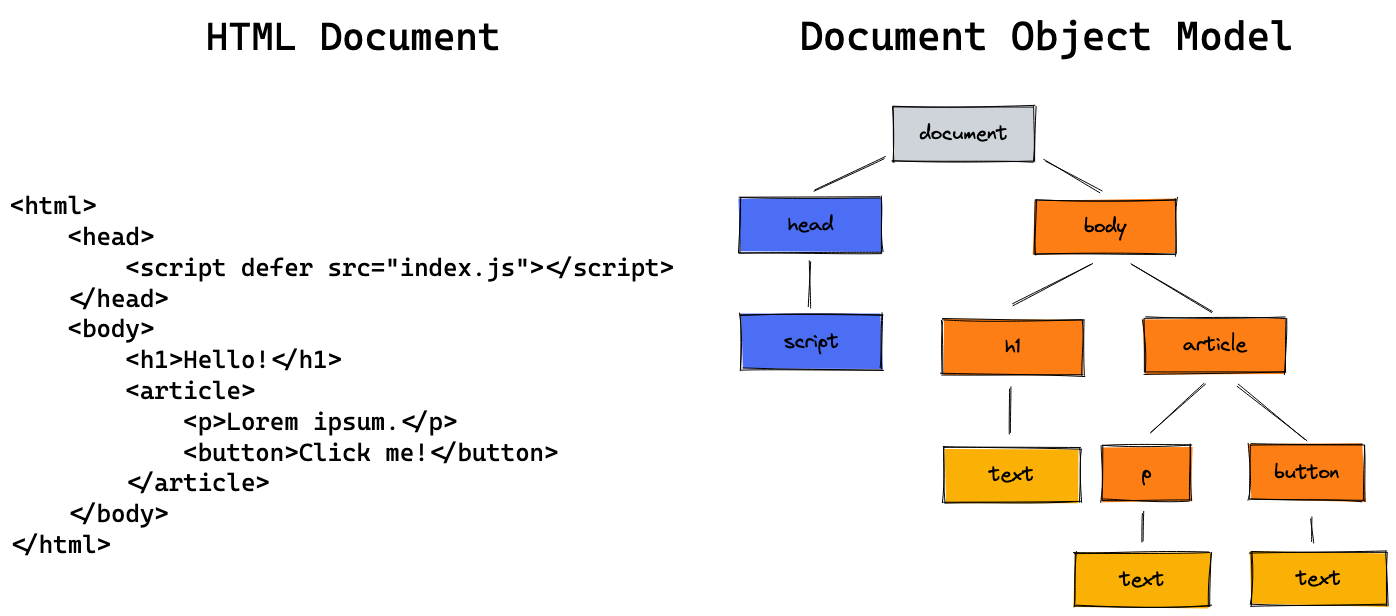
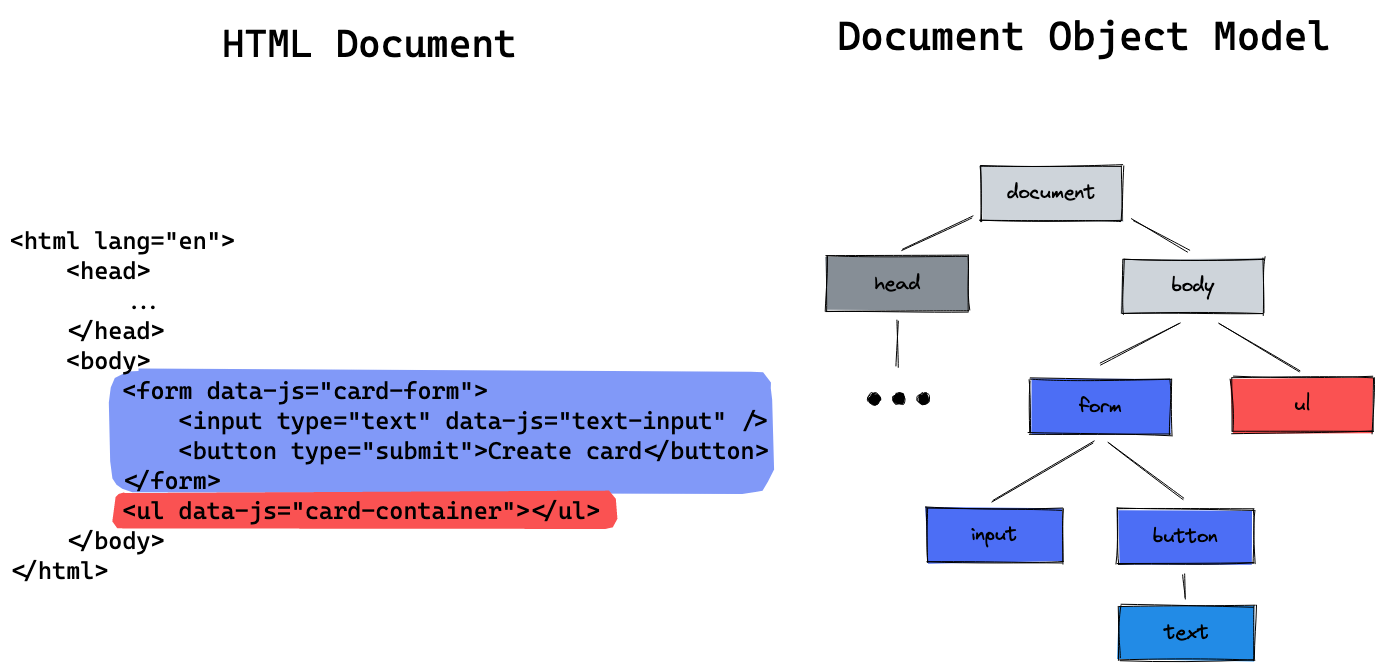
refactor: use different code examples to match demo

diff --git a/sessions/js-createelement/README.md b/sessions/js-createelement/README.md
@@ -29,33 +29,80 @@ How can we write JavaScript code that generates parts of our webpage for us?
 
 ### Which previously learned concepts will be utilized in this session?
 
-- DOM representations of HTML elements
+- querySelector
 - classList and eventListeners
 
 ---
 
 ## Inform: Session Guide
 
-### createElement and append
+### Motivation
 
 - [ ] Show why we want to generate HTML from JavaScript:
-  - [ ] open a website with similar posts like reddit or twitter
-  - [ ] highlight, that these elements are generated automatically from data
-  - [ ] show that we need to learn how to do this to build a modern web app
-- [ ] create a simple **article** element in the dom
-  - [ ] `const newArticle = document.createElement('article')`
-  - [ ] sketch the following diagram in excalidraw:
-        ![dom and createElement](assets/appendElement.png)
+- [ ] open a website with similar posts like reddit or twitter
+- [ ] highlight, that these elements are generated automatically from data
+- [ ] show that we need to learn how to do this to build a modern web app
+- [ ] During the session, show an example of how to generate HTML by creating a card component from
+      a simple form. You can use this demo:
+  - starter code:
+    [codesandbox](https://codesandbox.io/s/github/neuefische/web-exercises/sessions/js-createelement/demo-start?file=/js/index.js)
+  - final code:
+    [codesandbox](https://codesandbox.io/s/github/neuefische/web-exercises/sessions/js-createelement/demo-end?file=/js/index.js)
+
+### The DOM
+
+- [ ] explain, that JavaScript can access and change the HTML document via the **DOM**
+- [ ] **Document Object Model**: A data representation of the HTML website. Each tag is modelled as
+      a **node** in the document tree.
+- [ ] access the DOM via the `document` object, e.g. `document.querySelector`
+- [ ] sketch a quick DOM representation of the demo HTML ![dom and createElement](assets/DOM.png)
+
+### `document.createElement` and `append`
+
+- [ ] create a simple **li** element in the DOM
+  - [ ] `const newCard = document.createElement('li')`
+  - [ ] extend the diagram in excalidraw: ![dom and createElement](assets/createElement.png)
 - [ ] explain that additionally to create an Element you have to **place it** somewhere in the DOM
       tree.
   - [ ] `body.append(newArticle)`
   - [ ] show the effect in your example webpage
   - [ ] explain that append puts the element as the **last child** in the respective element
 
-### Section 2
+### Element Properties and EventListeners
 
-- [ ]
-- [ ]
+- [ ] highlight, that new created elements behave the same way as queried elements
+- [ ] show, that the element don't have to be queried to be manipulated. They already are saved in a
+      variable, e.g. `newCard`.
+- [ ] quickly recap how to add properties to an element
+  ```js
+  newCard.classList.add('card');
+  newCard.textContent = 'This text is displayed in the element';
+  ```
+- [ ] add this code to an event listener on the form element:
+  ```js
+  form.addEventListener('submit', event => {
+  	event.preventDefault();
+  	const newCard = document.createElement('li');
+  	newCard.classList.add('card');
+  	newCard.textContent = 'This text is displayed in the element';
+  	cardContainer.append(newCard);
+  });
+  ```
+
+### `innerHTML`
+
+- [ ] `innerHTML`: the given string is parsed to HTML and becomes the content of the element.
+- [ ] useful to generate many HTML elements from a single string, e.g.
+  ```js
+  const cardText = textInput.value;
+  newCard.innerHTML = `
+  	<h2>Card</h2>
+  	<p>${cardText}</p>
+  `;
+  ```
+- [ ] highlight, that the previous content of the element is overwritten
+- [ ] can be used to clear the content of an element: `newCard.innerHTML = ""`
+- [ ] mention, that `innerHTML` might be dangerous and should not be used with user input.
 
 ---
 
